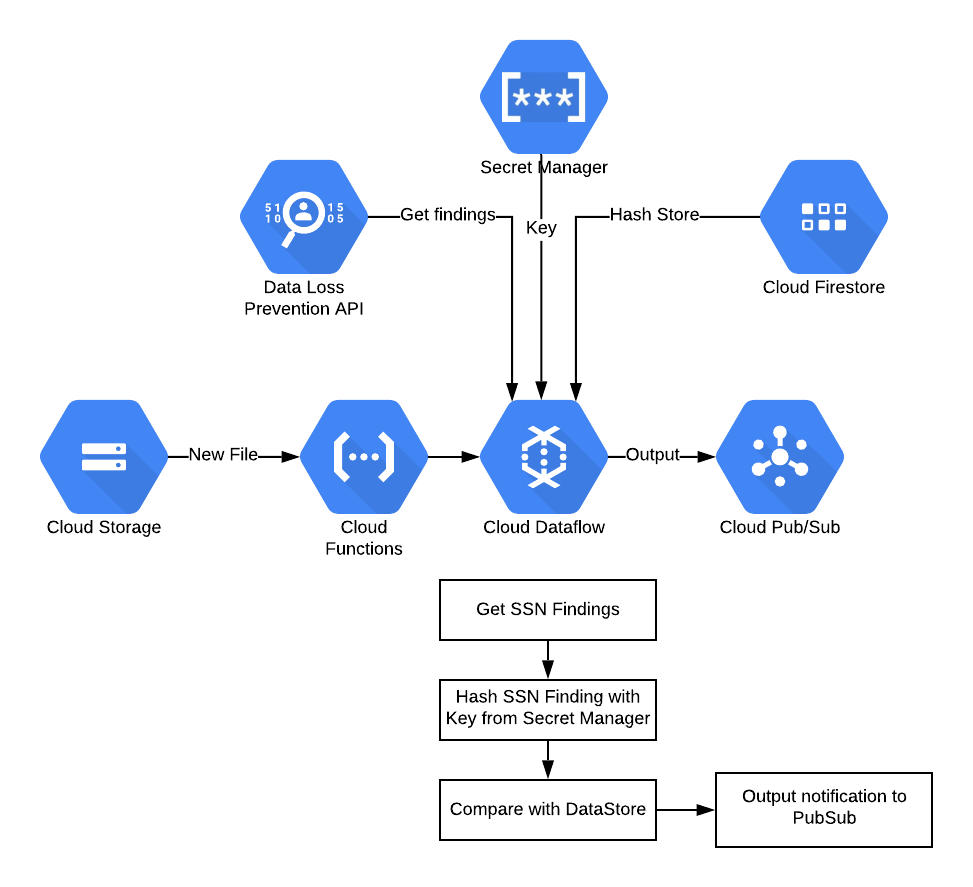
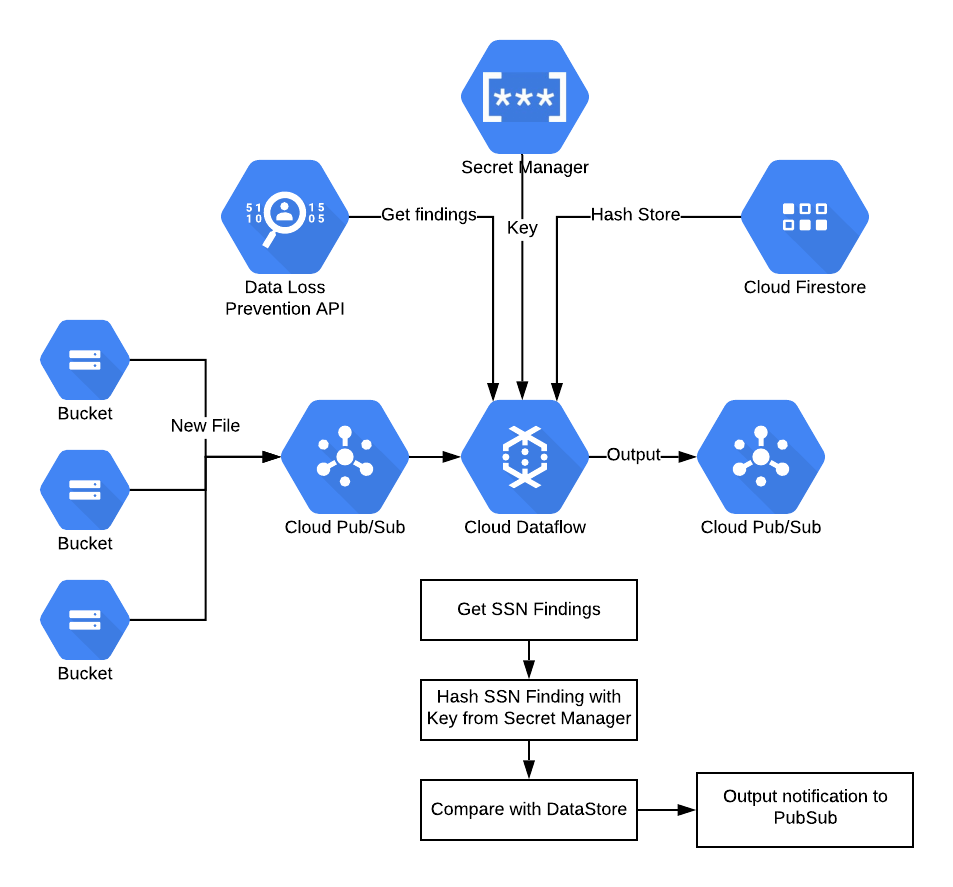
Updated architecture diagram, README and APIs since CloudFunctions are not necessary.

diff --git a/examples/dataflow-dlp-hash-pipeline/README.md b/examples/dataflow-dlp-hash-pipeline/README.md
@@ -13,14 +13,14 @@ be to store SSNs in a Dictionary InfoType in Cloud DLP, however that has the fol
 To avoid those limitations, we built a PoC Dataflow pipeline that will run for every new file
 in a specified GCS bucket and determine how many (if any) SSNs are found, triggering a Pubsub Topic. The known
 SSNs will be stored in Firestore, a highly scalable key value store, only after being hashed with a salt and
-key, which is stored in Secret Manager. This is what the architecuture will look like when we're done.
+key, which is stored in Secret Manager. This is what the architecture will look like when we're done.
 
 ![](./img/arch.png)
 
 ## Usage
 
-This repo offers end-to-end deployment of the hashpipeline solution using [HashiCorp Terraform](https://terraform.io)
-given a project id.
+This repo offers end-to-end deployment of the Hashpipeline solution using [HashiCorp Terraform](https://terraform.io)
+given a project and list of buckets to monitor.
 
 ### Prerequisites
 
@@ -34,7 +34,6 @@ This has only been tested on Mac OSX but will likely work on Linux as well.
 ### Step 1: Deploy the Infrastructure
 Note that the following APIs will be enabled on your project by Terraform:
 
-* `cloudfunctions.googleapis.com`
 * `iam.googleapis.com`
 * `dlp.googleapis.com`
 * `secretmanager.googleapis.com`
@@ -99,7 +98,7 @@ these notifications in your SIEM such as Splunk, etc.
 
 ### Step 1
 
-Follow Step 1 and 2 from above to setup the demo environment
+Follow Step 1 and 2 from above to set up the demo environment
 
 ### Step 2: Seed the Firestore with Fake SSNs
 
@@ -107,7 +106,7 @@ This script will do the following:
 
 * Create a list of valid and random Social Security Numbers
 * Store the plain text in `scripts/socials.txt`
-* Hash the numbers (normalized without dashes) using HMAC-SHA256 and the key from step 2
+* Hash the numbers (normalized without dashes) using HMAC-SHA256 and the key generated from `make create_key`
 * Store the hashed values in Firestore under the collection specified in the terraform variable: `firestore_collection`
 
 ```
@@ -139,7 +138,7 @@ $ make subscribe
 Successfully subscribed to <subscription>. Messages will print below...
 ```
 
-Now in a third termnial, run the following command to upload a file to the test bucket.
+Now in a third terminal, run the following command to upload a file to the test bucket.
 
 ```
 export BUCKET=<dataflow-test-bucket>
@@ -161,7 +160,7 @@ This number can be verified by looking in the file itself on the first line, whi
 for this example.
 
 
-### Step 7: Deploy the pipeline to a template, so our Cloud Function can run it
+### Step 7: Deploy the pipeline to a template
 
 ```
 make build
